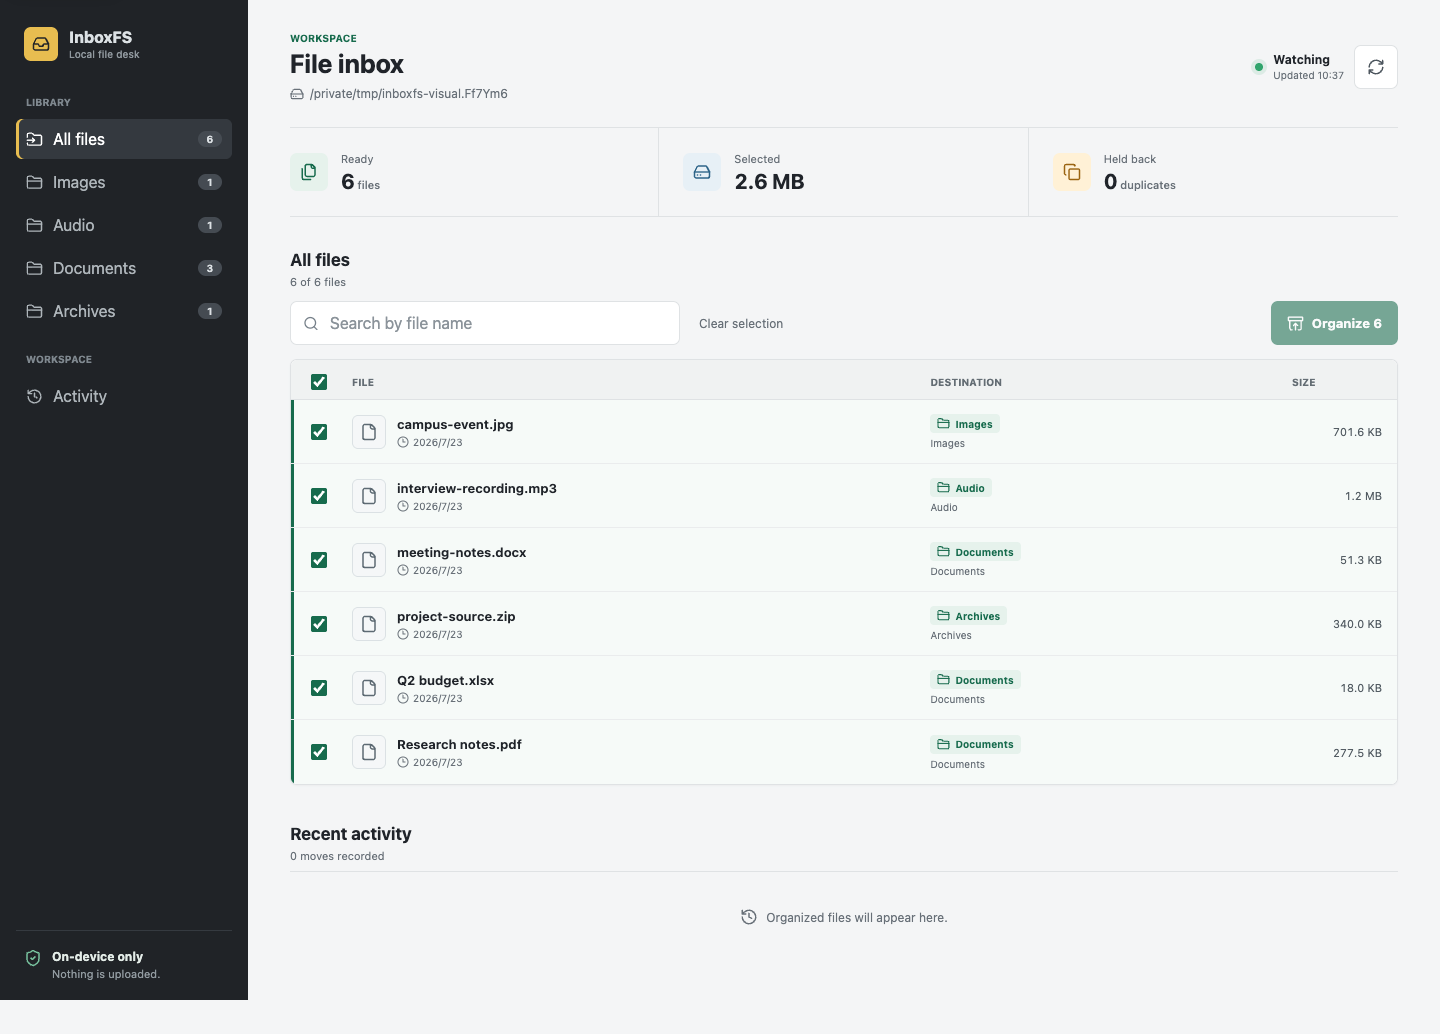
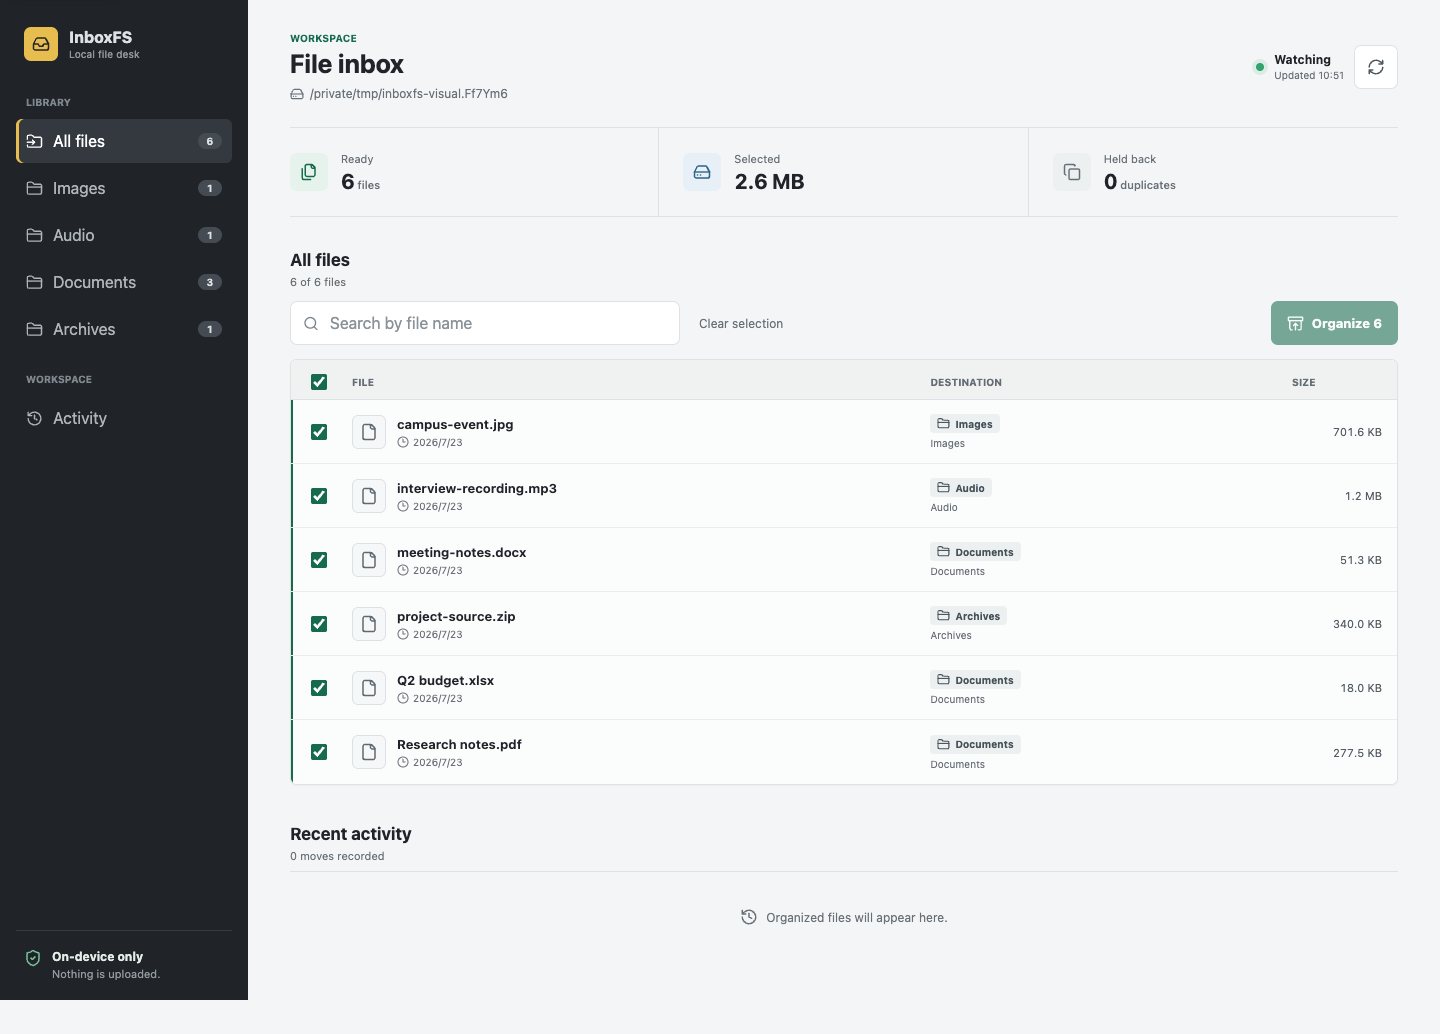
style: refine functional color hierarchy

diff --git a/web/src/styles.css b/web/src/styles.css
@@ -16,6 +16,7 @@
   --amber-soft: #fff1d6;
   --blue: #2d6488;
   --blue-soft: #e7f0f6;
+  --neutral-soft: #edf0f1;
   --focus: #2684ff;
   --radius: 7px;
 }
@@ -79,6 +80,7 @@ h1 { font-size: 26px; line-height: 1.2; letter-spacing: 0; }
 .metric-ready { background: var(--green-soft); color: var(--green); }
 .metric-size { background: var(--blue-soft); color: var(--blue); }
 .metric-duplicate { background: var(--amber-soft); color: var(--amber); }
+.metric-duplicate.is-empty { background: var(--neutral-soft); color: #657078; }
 
 .workspace, .activity { scroll-margin-top: 20px; }
 .section-heading { min-height: 48px; display: flex; align-items: start; justify-content: space-between; gap: 16px; }
@@ -102,8 +104,8 @@ h1 { font-size: 26px; line-height: 1.2; letter-spacing: 0; }
 .listhead { height: 40px; border-bottom: 1px solid var(--border); background: #f0f2f2; color: #646d74; font-size: 10px; font-weight: 750; text-transform: uppercase; }
 .row { min-height: 64px; border-bottom: 1px solid #eaeced; color: #50585f; font-size: 12px; transition: background 160ms ease; }
 .row:last-child { border-bottom: 0; }
-.row:hover, .row.selected { background: #f6faf8; }
-.row.selected { box-shadow: inset 3px 0 var(--green); }
+.row:hover { background: #f8f9f9; }
+.row.selected { background: #fbfcfc; box-shadow: inset 2px 0 var(--green); }
 .checkbox-cell { width: 44px; height: 44px; margin-left: -10px; display: grid; place-items: center; }
 input[type="checkbox"] { width: 16px; height: 16px; accent-color: var(--green); }
 .filename { min-width: 0; display: flex; align-items: center; gap: 11px; }
@@ -112,7 +114,7 @@ input[type="checkbox"] { width: 16px; height: 16px; accent-color: var(--green); 
 .filename small { color: var(--text-muted); display: flex; align-items: center; gap: 4px; font-size: 10px; }
 .file-icon { width: 34px; height: 34px; flex: 0 0 auto; border: 1px solid #dbe1e4; border-radius: 6px; background: #f5f7f8; color: #5d6a73; display: grid; place-items: center; }
 .destination { min-width: 0; display: grid; gap: 4px; }
-.destination > span { width: fit-content; max-width: 100%; padding: 3px 7px; border-radius: 4px; background: var(--green-soft); color: var(--green); display: flex; align-items: center; gap: 5px; font-size: 10px; font-weight: 700; }
+.destination > span { width: fit-content; max-width: 100%; padding: 3px 7px; border-radius: 4px; background: var(--neutral-soft); color: #465159; display: flex; align-items: center; gap: 5px; font-size: 10px; font-weight: 700; }
 .destination small { overflow: hidden; color: var(--text-muted); font-size: 10px; text-overflow: ellipsis; white-space: nowrap; }
 .destination.duplicate > span { background: var(--amber-soft); color: #895508; }
 .file-size { color: #545d64; font-size: 11px; font-variant-numeric: tabular-nums; text-align: right; }

diff --git a/web/src/App.tsx b/web/src/App.tsx
@@ -141,7 +141,7 @@ export function App() {
       <section className="summary" aria-label="Inbox summary">
         <div><span className="metric-icon metric-ready"><Files size={18} aria-hidden="true" /></span><span><small>Ready</small><strong>{scan?.suggestions.length ?? 0}<em> files</em></strong></span></div>
         <div><span className="metric-icon metric-size"><HardDrive size={18} aria-hidden="true" /></span><span><small>Selected</small><strong>{formatSize(selectedSize)}</strong></span></div>
-        <div><span className="metric-icon metric-duplicate"><Copy size={18} aria-hidden="true" /></span><span><small>Held back</small><strong>{duplicateCount}<em> duplicates</em></strong></span></div>
+        <div><span className={`metric-icon metric-duplicate${duplicateCount ? "" : " is-empty"}`}><Copy size={18} aria-hidden="true" /></span><span><small>Held back</small><strong>{duplicateCount}<em> duplicates</em></strong></span></div>
       </section>
 
       <section className="workspace" id="files" aria-labelledby="files-heading">

diff --git a/CHANGELOG.md b/CHANGELOG.md
@@ -1,5 +1,11 @@
 # Changelog
 
+## 0.3.1
+
+- Reserve green for selection, success, and the primary organize action.
+- Use neutral destination labels to reduce visual noise in the file table.
+- Keep the duplicate metric neutral at zero and introduce amber only when duplicates are present.
+
 ## 0.3.0
 
 - Redesign the React workspace around a denser file-operations layout.